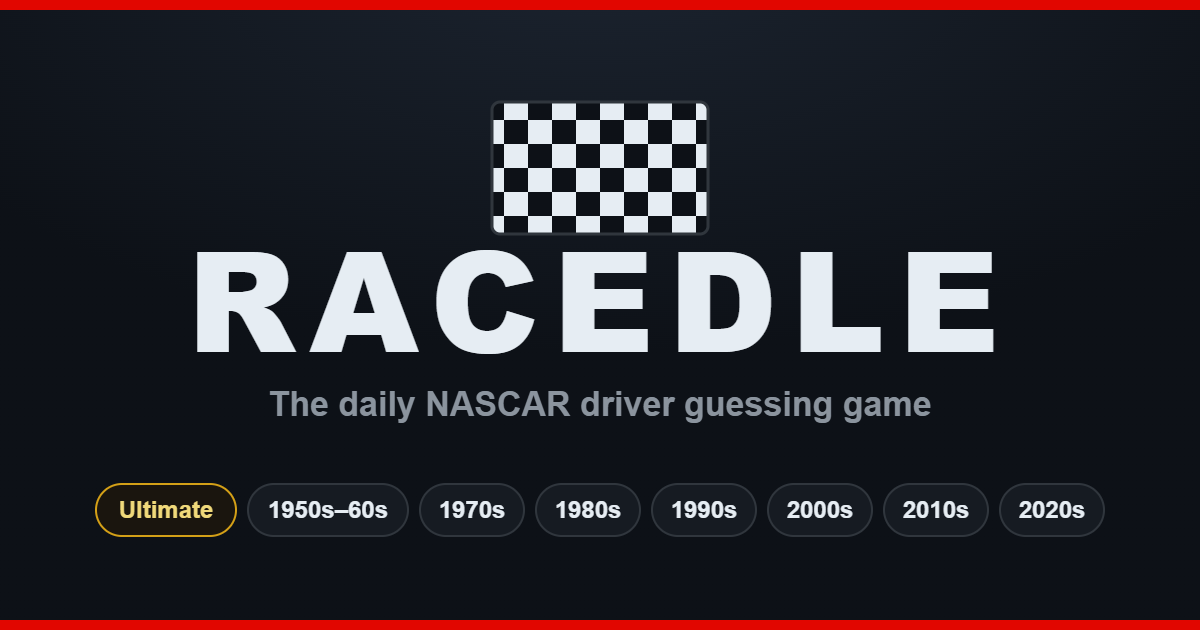
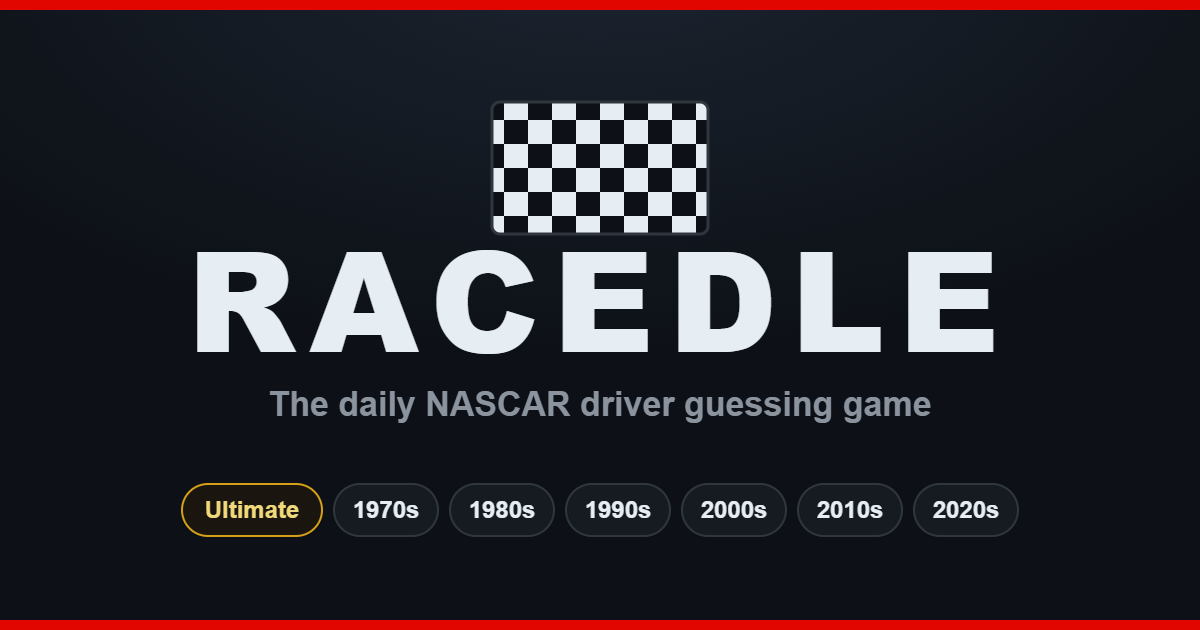
Remove the 1950s-60s decade mode
Modes are now Ultimate plus 1970s, 1980s, 1990s, 2000s, 2010s and
2020s. The 36 drivers who debuted before 1970 (Petty, Pearson,
Yarborough, ...) stay in the game and are playable in Ultimate only.

Other modes' daily answers are unaffected (each mode's seed and pool
are unchanged).

Updated the GENRES comment, How to Play, FAQ (the "why are the 1950s
and 1960s one mode?" question is replaced by "where are the drivers
who debuted before 1970?"), About, README and BUSINESS_PLAN mode
counts, and regenerated og-image.png without the 1950s-60s pill.

Verified in-browser: 7 tabs, Ultimate 265, no pre-1970 debutant in any
decade mode, no console errors.

Changed region(s): [[0.0925, 0.754, 0.925, 0.8746]]

diff --git a/faq.html b/faq.html
@@ -47,13 +47,14 @@
     <h2>What are the modes, and what is Ultimate?</h2>
     <p>Each mode is its own puzzle with its own daily driver, free-play pool, and stats.
       <strong>🏆 Ultimate</strong> draws from every NASCAR driver in the game. The decade modes —
-      <strong>1950s–60s</strong>, <strong>1970s</strong>, <strong>1980s</strong>, <strong>1990s</strong>,
+      <strong>1970s</strong>, <strong>1980s</strong>, <strong>1990s</strong>,
       <strong>2000s</strong>, <strong>2010s</strong> and <strong>2020s</strong> — each use only the
       drivers whose Cup debut came in that decade.</p>
 
-    <h2>Why are the 1950s and 1960s one mode?</h2>
-    <p>Only a handful of drivers who debuted in the 1950s also ran a full-time season from 1970 on —
-      too few for a fresh daily puzzle — so they share a mode with the 1960s debutants.</p>
+    <h2>Where are the drivers who debuted before 1970?</h2>
+    <p>In Ultimate. Legends like Richard Petty and David Pearson debuted in the 1950s and '60s and
+      raced full-time into the 1970s, so they're in the game — there just isn't a separate mode
+      for their debut decades.</p>
 
     <h2>Which drivers can be the answer?</h2>
     <p>Racedle includes NASCAR Cup Series drivers who ran a full-time season (at least 60% of the

diff --git a/about.html b/about.html
@@ -35,7 +35,7 @@
     <p>Every day, each mode serves one shared mystery driver that every player worldwide gets. You
       guess driver names and Racedle grades each guess across five categories with color clues until
       you find the answer. <strong>Ultimate</strong> draws from every era of the Cup Series, and the
-      <strong>decade modes</strong> (1950s–60s through the 2020s) each draw only from the drivers who
+      <strong>decade modes</strong> (the 1970s through the 2020s) each draw only from the drivers who
       debuted in that decade. Every mode has its own daily puzzle, unlimited free-play mode, and
       personal stats. New to the game? Start with <a href="how-to-play.html">How to Play</a>.</p>
 

diff --git a/data.js b/data.js
@@ -21,12 +21,10 @@ const SERIES = {
 };
 
 /* Playable modes. "Ultimate" is every driver; each other mode is the
-   drivers whose Cup debut falls in the listed decade(s). The 1950s has
-   too few drivers for a daily puzzle on its own, so it shares a mode
-   with the 1960s. */
+   drivers whose Cup debut falls in the listed decade. Drivers who
+   debuted before 1970 are in Ultimate only. */
 const GENRES = [
   { id: "ultimate",  label: "Ultimate",  decades: null },
-  { id: "1950s-60s", label: "1950s–60s", decades: [1950, 1960] },
   { id: "1970s",     label: "1970s",     decades: [1970] },
   { id: "1980s",     label: "1980s",     decades: [1980] },
   { id: "1990s",     label: "1990s",     decades: [1990] },

diff --git a/how-to-play.html b/how-to-play.html
@@ -72,8 +72,7 @@
       play them all:</p>
     <ul>
       <li><strong>🏆 Ultimate</strong> — every driver in the game, from every era.</li>
-      <li><strong>Decade modes</strong> — <strong>1950s–60s</strong>, <strong>1970s</strong>,
-        <strong>1980s</strong>, <strong>1990s</strong>, <strong>2000s</strong>, <strong>2010s</strong>
+      <li><strong>Decade modes</strong> — <strong>1970s</strong>, <strong>1980s</strong>, <strong>1990s</strong>, <strong>2000s</strong>, <strong>2010s</strong>
         and <strong>2020s</strong>. Each uses only the drivers whose Cup debut falls in that decade,
         so the Debut column is hidden — the other four clues do the work.</li>
     </ul>

diff --git a/BUSINESS_PLAN.md b/BUSINESS_PLAN.md
@@ -6,11 +6,11 @@
 
 ## 1. Executive summary
 
-**Racedle** is a free, browser-based daily guessing game for NASCAR fans. Players pick a **mode** — **🏆 Ultimate** (every Cup driver since 1970) or a debut decade (**1950s–60s, 1970s, 1980s, 1990s, 2000s, 2010s, 2020s**) — and each day, every player worldwide gets the same mystery driver per mode. Players guess driver names; each guess reveals color-coded feedback across five categories (current/last team, Cup championships, Cup wins band, active/retired, debut decade) until the driver is found. Eight daily puzzles per player is the Loldle multi-mode engagement model, built in from the start. Revenue comes from display advertising (Google AdSense), with negligible operating costs (static hosting is free; a custom domain is ~$12/year).
+**Racedle** is a free, browser-based daily guessing game for NASCAR fans. Players pick a **mode** — **🏆 Ultimate** (every Cup driver since 1970) or a debut decade (**1970s, 1980s, 1990s, 2000s, 2010s, 2020s**) — and each day, every player worldwide gets the same mystery driver per mode. Players guess driver names; each guess reveals color-coded feedback across five categories (current/last team, Cup championships, Cup wins band, active/retired, debut decade) until the driver is found. Seven daily puzzles per player is the Loldle multi-mode engagement model, built in from the start. Revenue comes from display advertising (Google AdSense), with negligible operating costs (static hosting is free; a custom domain is ~$12/year).
 
 The model is proven: **Loldle** (League of Legends) turned the identical formula into millions of monthly visits with zero backend infrastructure. NASCAR has a large, passionate, weekly-engaged fan base with deep history — decades of drivers, rivalries and stats that fans argue about — which is exactly what a daily trivia habit feeds on.
 
-**Status:** live at https://drewdw23.github.io/racedle/ — 265 Cup drivers, eight modes, How to Play / FAQ / About / Privacy pages. Next steps: custom domain, Google Search Console, AdSense application, frozen daily-answer calendar.
+**Status:** live at https://drewdw23.github.io/racedle/ — 265 Cup drivers, seven modes, How to Play / FAQ / About / Privacy pages. Next steps: custom domain, Google Search Console, AdSense application, frozen daily-answer calendar.
 
 ---
 
@@ -41,7 +41,7 @@ The model is proven: **Loldle** (League of Legends) turned the identical formula
 ## 3. Product & gameplay design
 
 ### Core loop (shipped)
-1. Player picks a mode (defaults to 🏆 Ultimate — the full pool). Each mode has an independent daily driver, free-play mode, stats, and streaks, so a fan can play up to eight dailies per visit.
+1. Player picks a mode (defaults to 🏆 Ultimate — the full pool). Each mode has an independent daily driver, free-play mode, stats, and streaks, so a fan can play up to seven dailies per visit.
 2. Player types a driver name; autocomplete suggests from that mode's pool (265 drivers in Ultimate).
 3. On guess, a row of five tiles flips, one per category:
 
@@ -175,7 +175,7 @@ Costs: domain $12/yr, hosting $0. Break-even is nearly immediate; upside is unca
 |---|---|---|
 | **v1.0** ✅ | Daily + free play, clue categories, share, stats, ad slots ready | shipped |
 | **v1.x** ✅ | Driver database, per-mode daily puzzles, Wikipedia import pipeline with golden tests, public launch on GitHub Pages, AdSense-readiness content pages | shipped |
-| **v2.0** ✅ | NASCAR-only focus: 265 Cup drivers (1970+), Ultimate + seven debut-decade modes, self-contained data build | shipped (Nov 2026) |
+| **v2.0** ✅ | NASCAR-only focus: 265 Cup drivers (1970+), Ultimate + six debut-decade modes (1970s–2020s; pre-1970 debutants in Ultimate), self-contained data build | shipped (Nov 2026) |
 | v2.1 | Frozen daily-answer calendar (weighted toward recognizable drivers), end-of-2026 data refresh, custom domain, AdSense live | +4 weeks |
 | v2.2 | Another mode (e.g., **Career mode**: guess from a career-path clue chain — teams listed one by one), unit tests + CI | +3 months |
 | v2.3 | Archive of past puzzles for new players; colorblind mode | +5 months |

diff --git a/README.md b/README.md
@@ -2,8 +2,9 @@
 
 **The daily NASCAR driver guessing game** — a Wordle/Loldle-style game for NASCAR fans.
 Guess the mystery **NASCAR Cup Series** driver using clues across five categories. Play
-**🏆 Ultimate** across every era, or pick a decade — **1950s–60s, 1970s, 1980s, 1990s, 2000s,
-2010s, 2020s** — to play only the drivers who debuted then. Every mode has its own daily puzzle,
+**🏆 Ultimate** across every era, or pick a decade — **1970s, 1980s, 1990s, 2000s, 2010s,
+2020s** — to play only the drivers who debuted then (drivers who debuted before 1970 are in
+Ultimate). Every mode has its own daily puzzle,
 free play, and stats.
 
 ▶ **Play it:** https://drewdw23.github.io/racedle/
